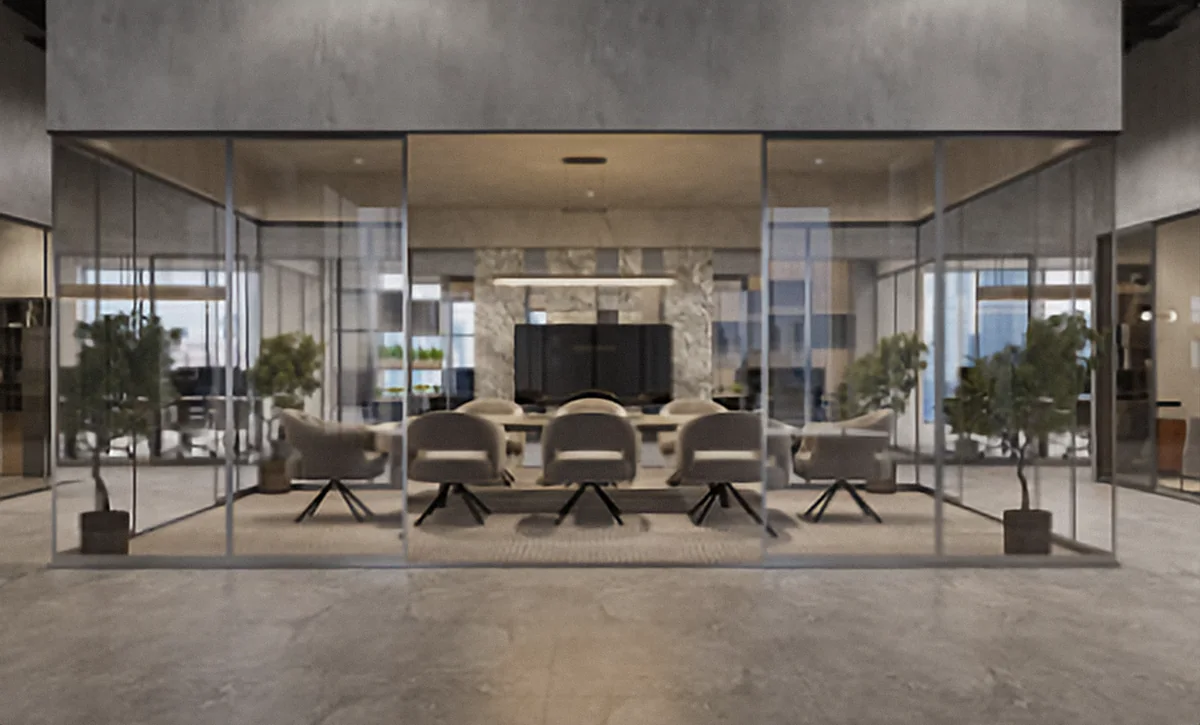
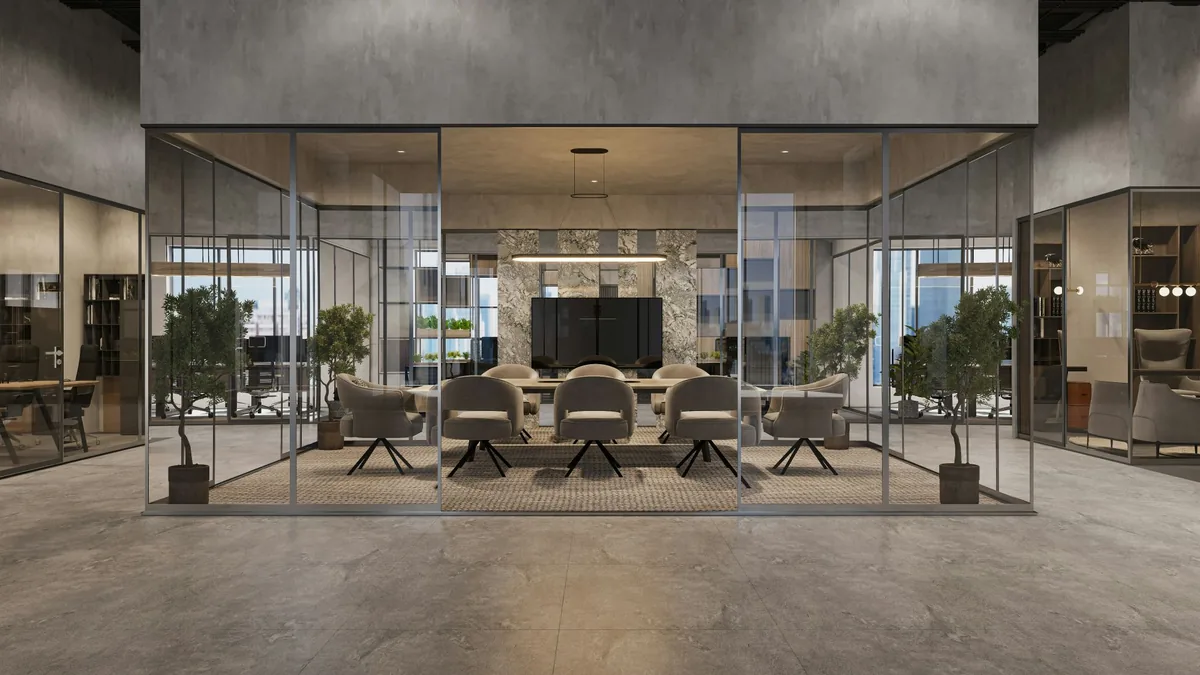
About: real photos, story moved below leadership, cleaner strengths layout
Uses the full-resolution workplace photo, adds the team photo to the team
section and Vivek Garg's portrait to his leadership card, moves the
2013/Today story below Leadership, and puts the 'What we are good at'
intro in its own column beside the list.

Claude-Session: https://claude.ai/code/session_01Nw7MaYiFrVi54Z8UWkKvok

diff --git a/README.md b/README.md
@@ -101,8 +101,7 @@ These are marked in the code or currently published at your request. Please revi
 - [ ] **Product photos**: every model now shows a representative brand photo from Pexels (free commercial licence; sources listed in `PHOTOS` in `src/data/products.ts`). Swap in your own photos of actual stock when you can.
 - [ ] **Business hours** (`CONTACT.BUSINESS_HOURS`).
 - [ ] **Client list**: 17 names shown. Ericsson, Samsung, Tower and Xceed are hidden until confirmed.
-- [ ] **About page copy**: leadership bios (Vivek Garg, Managing Director, 20+ years; Lakhendra Prasad, Partner and Managing Lead for Operations), the team section, the "How we work" principles and the focus tags. Add photos if you'd like them instead of the monograms.
-- [ ] **Workplace photo** on About (`public/brand/workplace-*.webp`): upscaled from the small image supplied. Replace it with an original high-resolution photo when you have one.
+- [ ] **About page copy**: leadership bios (Vivek Garg, Managing Director, 20+ years; Lakhendra Prasad, Partner and Managing Lead for Operations), the team section, the "How we work" principles and the focus tags. Vivek's photo is in; Lakhendra still shows a monogram until his photo is added (set `photo` for him in `src/pages/about.astro`).
 - [ ] **Current inventory**: models are from the old site with "Confirm availability". Add newer models, specs, photos and prices when ready.
 - [ ] **Desktop and monitor specs** (processor/RAM per model) so those pages can be indexed.
 - [ ] **Surat and Patna**: shown on the map as service areas (from the company profile) without their own pages.
